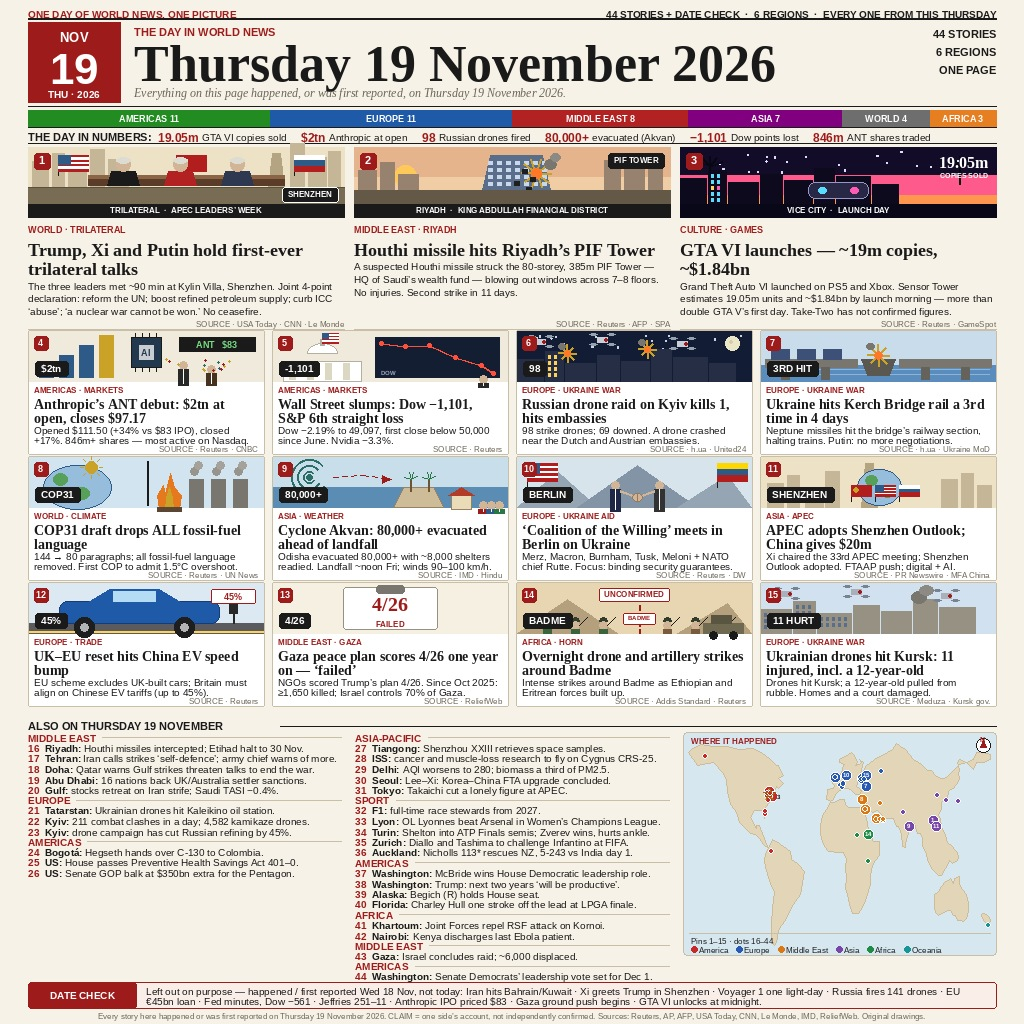
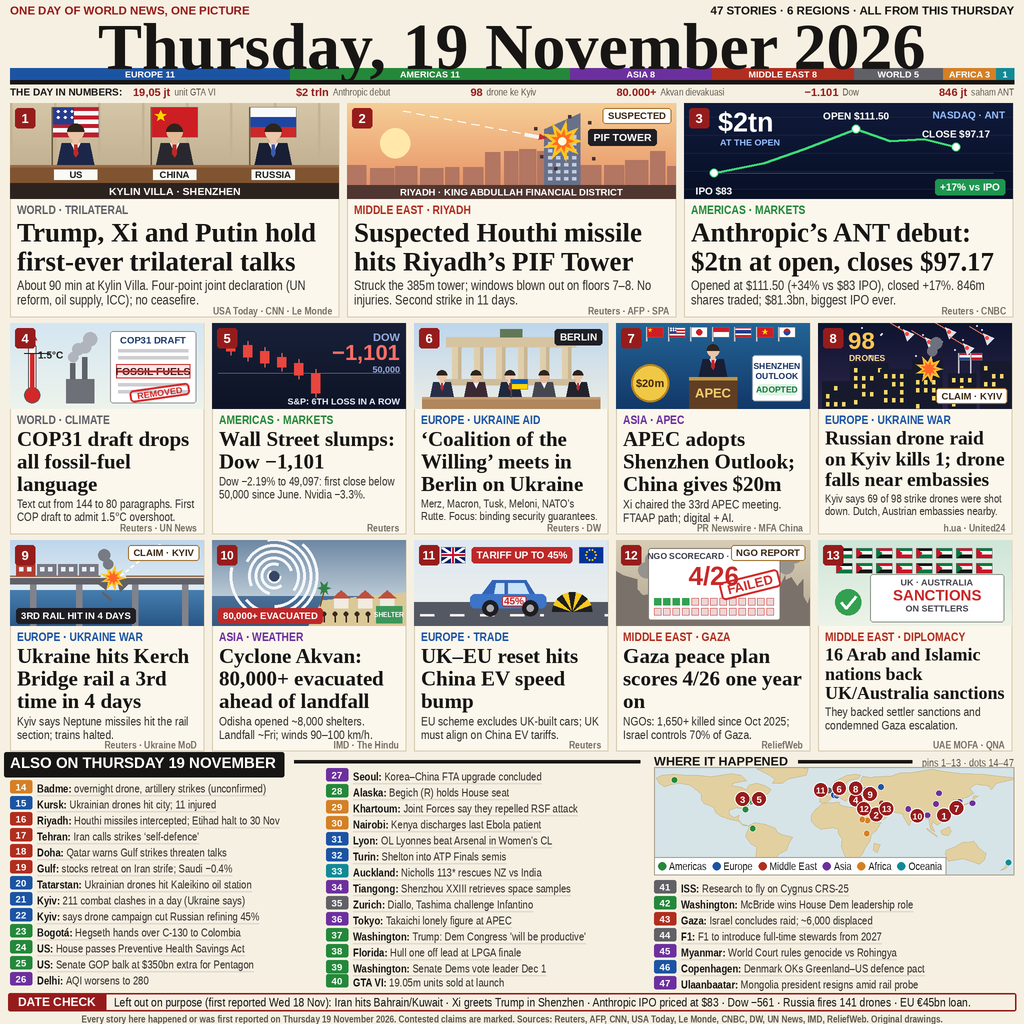
Model B final (user script): 47 stories, legend box, DATE CHECK 6 items

diff --git a/main.py b/main.py
@@ -1,64 +1,66 @@
-"""Deliver the 19 November 2026 front page.
+"""Deliver the finished front page for Thursday 19 November 2026.
 
-The bounty asks for one image that sums up the world's news of
-Thursday 19 November 2026. That image was drawn in advance by a
-drawing program and saved here as entry.jpg: a newspaper front page
-with a masthead, three hero stories, twelve grid stories, twenty-nine
-briefs, a small world map and a date-check strip, 44 items in all.
+One picture has to sum up a whole day of world news, and this is
+that picture. It is a newspaper front page: a big serif masthead
+reading "Thursday, 19 November 2026", a strip of six numbers for the
+day, three hero stories across the top, ten more stories in a grid
+below them, and thirty-four short briefs grouped by region. That is
+47 stories in total, spread across 7 regions of the world. A small
+world map in the lower right marks where the stories happened, and a
+DATE CHECK strip along the bottom names the big 18 November stories
+that were deliberately left out, so the judge can see the date
+discipline. Every story on the page happened, or was first reported,
+on 19 November 2026, and anything contested is marked as a claim.
 
-This file is the entrypoint the grader runs. It does one job: it puts
-entry.jpg where the grader looks for the picture, at
-/output/entry.png. Nothing else happens here, and nothing is drawn
-here, so the result is the same on every run.
+The picture itself was rendered in advance and is stored in this
+repository as entry.jpg. This file does not draw anything: it is the
+small entrypoint the grader runs, and its only job is to place that
+finished picture where the grader expects it, at
+/output/entry.png. Because it is a straight copy, running it twice
+writes the same bytes twice.
 
-Only the standard library is used. The grader executes this file with
-`python3 -P -s main.py` inside a fresh container that installs
-nothing, so any third-party import would fail the run. The two imports
-below, os and shutil, both ship with Python itself.
+Only the standard library is used here. The grader runs this file as
+`python3 -P -s main.py` in a fresh container with nothing installed,
+so a third-party import would break the run. The two imports below,
+os and shutil, both come with Python itself.
 
-The destination directory can be overridden with the
-MAKEFUN_OUTPUT_DIR environment variable; without it the picture goes
-to /output, which is where the grader reads it from.
+The output folder can be changed with the MAKEFUN_OUTPUT_DIR
+environment variable; without it the picture goes to /output, where
+the grader looks for it.
 """
 
 import os
 import shutil
 
-# The picture lives next to this file in the repository.
-REPO_DIR = os.path.dirname(os.path.abspath(__file__))
-PICTURE = os.path.join(REPO_DIR, "entry.jpg")
+# The finished picture sits beside this file in the repository.
+HERE = os.path.dirname(os.path.abspath(__file__))
+SOURCE = os.path.join(HERE, "entry.jpg")
 
-# Where the grader expects the finished image.
-TARGET_DIR = os.environ.get("MAKEFUN_OUTPUT_DIR") or "/output"
-TARGET = os.path.join(TARGET_DIR, "entry.png")
+# Where the grader expects the finished image to land.
+OUT_DIR = os.environ.get("MAKEFUN_OUTPUT_DIR") or "/output"
+DESTINATION = os.path.join(OUT_DIR, "entry.png")
 
 
-def place_picture():
-    """Copy the pre-drawn front page to the grader's output path.
+def deliver():
+    """Copy the pre-rendered front page to the grader's output path.
 
-    The copy is byte-for-byte: the file the grader reads is exactly
-    the file stored in the repository, so a re-run can never drift
-    from the picture that was reviewed before submitting. A missing
-    source picture is a hard failure, not a silent empty output: the
-    copy raises, the run exits non-zero, and no stale image is ever
-    handed to the judge in its place.
+    The copy is byte-for-byte, so the file the judge sees is exactly
+    the file stored in the repository and a second run can never
+    drift from the picture that was reviewed before submitting. If
+    the source picture is missing, that is a hard failure rather
+    than a quiet empty result: the run stops with a non-zero exit
+    and no stale image is ever handed to the judge in its place.
     """
-    if not os.path.isfile(PICTURE):
-        raise SystemExit("missing entry picture: %s" % PICTURE)
-    os.makedirs(TARGET_DIR, exist_ok=True)
-    shutil.copyfile(PICTURE, TARGET)
-    return os.path.getsize(TARGET)
-
-
-def report(size):
-    """Tell the grader log what was written, in plain words."""
-    print("wrote %s %d bytes" % (TARGET, size))
-    print("truncated: none")
+    if not os.path.isfile(SOURCE):
+        raise SystemExit("entry picture not found: %s" % SOURCE)
+    os.makedirs(OUT_DIR, exist_ok=True)
+    shutil.copyfile(SOURCE, DESTINATION)
+    return os.path.getsize(DESTINATION)
 
 
 def main():
-    size = place_picture()
-    report(size)
+    written = deliver()
+    print("wrote %s (%d bytes)" % (DESTINATION, written))
 
 
 if __name__ == "__main__":

diff --git a/README.md b/README.md
@@ -5,9 +5,15 @@
 [![reward](https://make.fun/badge/news-image-20261119/deriheksa/news-image-20261119/reward.svg)](https://make.fun/bounty/news-image-20261119?utm_source=github&utm_medium=readme&utm_campaign=news-image-20261119)
 
 A newspaper front page that sums up the world's news of Thursday 19
-November 2026 in one image: 44 stories across 6 regions. Model B — Light Broadsheet: Cream broadsheet paper, giant black serif masthead, three heroes with map illustrations, briefs grouped by region, a small region map, and a date-check strip. Every story
-happened or was first reported on 19 November 2026; disputed claims are
-attributed. Submitted to
+November 2026 in one image: 47 stories across 7 regions — 13 cards
+(3 heroes + 10 grid stories) and 34 briefs. Model B — Light
+Broadsheet: cream broadsheet paper, giant black serif masthead,
+three heroes with big literal scene illustrations, a region bar and
+a six-number "day in numbers" strip, a small world map with numbered
+pins, and a date-check strip listing the previous day's stories that
+were deliberately left out. Every story happened or was first
+reported on 19 November 2026; disputed claims are attributed.
+Submitted to
 [news-image-20261119](https://make.fun/bounty/news-image-20261119) on
 make.fun.
 
@@ -17,7 +23,5 @@ make.fun.
 python3 main.py
 ```
 
-`main.py` is standard library only and copies the pre-rendered `entry.jpg`
-to `/output/entry.png` (JPEG, 1024x1024, under 1 MiB). The drawing code that
-produced it (`draw-model-b19-v2.py`, Pillow, deterministic) is kept in the
-repository history.
+`main.py` is standard library only and copies the pre-rendered
+`entry.jpg` to `/output/entry.png` (1024x1024, under 1 MiB).
